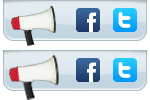
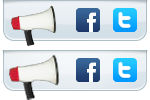
Trying another background color scheme (blue).

Changed region(s): [[0.2133, 0.72, 0.9067, 0.9], [0.1067, 0.81, 0.16, 0.9]]

diff --git a/public/stylesheets/discuss.css b/public/stylesheets/discuss.css
@@ -23,9 +23,17 @@
   position: relative;
   left: 7px;
   top: 25px;
-  padding: 0 0 17px;
+  padding: 17px 7px;
   text-align: center;
-  margin: 0 0 20px;
+  margin: 0 0 40px;
+  background-color: #E6EEF1;
+  background-color: #e0e8ec;
+  background-color: #d3dce0;
+  background-color: #D8E2E5;
+  background-color: #CAD5DE;
+  border-radius: 12px;
+  -moz-border-radius: 12px;
+  -webkit-border-radius: 12px;
 }
 
 .action_bar .label {
@@ -64,7 +72,7 @@
 }
 
 .action_bar .add_new_button .label {
-  top: 9px;
+  top: 5px;
 }
 
 #question_list a.avatar_holder{
@@ -1577,8 +1585,8 @@ form.statement fieldset ol li.tags_container {
 }
 
 .statement .social_echo_container .loading {
-	left: 156px;
-  top: 130px;
+	left: 178px;
+  top: 145px;
 }
 
 .statement .header .loading {

diff --git a/public/stylesheets/general.css b/public/stylesheets/general.css
@@ -1,9 +1,11 @@
 /* Styles for body, headings and standard HTML elements. */
 
 body {
-  background:  #a8c642 url(../images/page/background.png) repeat-x;
-  margin:      0px;
-  padding:     0px;
+  /*background:  #a8c642 url(../images/page/background.png) repeat-x;*/
+  background:  #C8D5DA url(../images/page/background.png) repeat-x;
+  background:  #96a6b3 url(../images/page/background.png) repeat-x;
+  margin:      0;
+  padding:     0;
   color:       #21587f;
   text-align:  left;
   overflow-y:  scroll;
